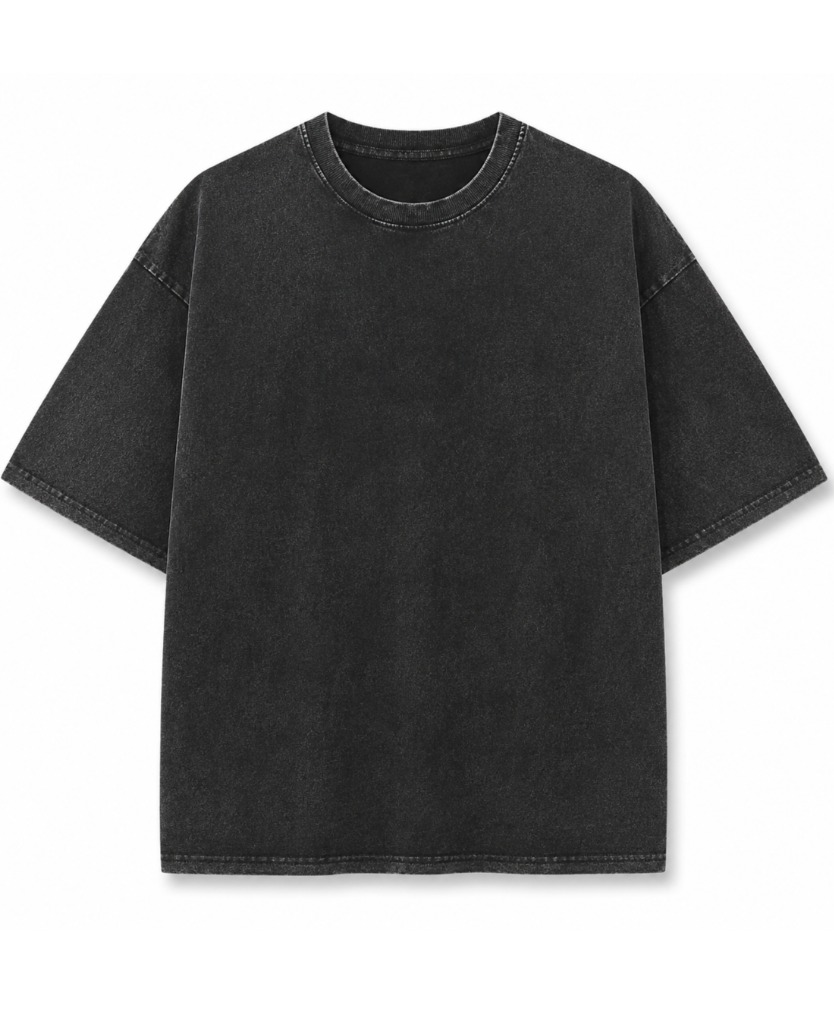
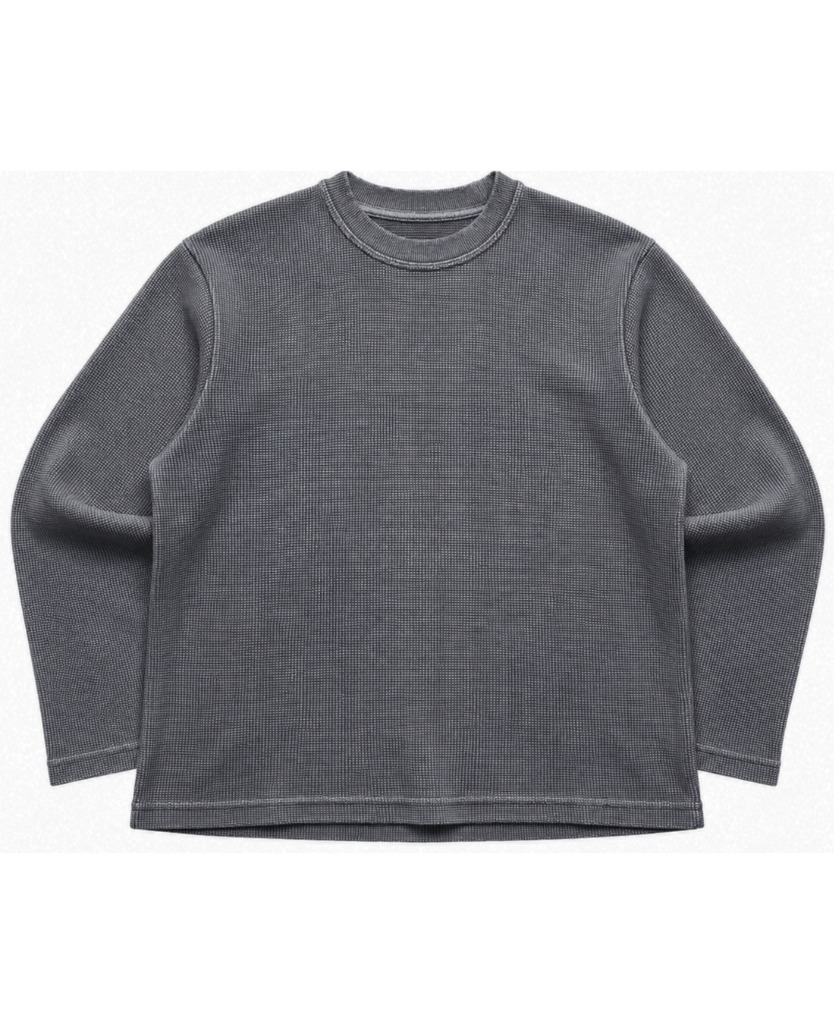
feat: add model shots for the-classic-waffle-black and update acidwash waffle full sleeve front asset

diff --git a/src/lib/products/queries.ts b/src/lib/products/queries.ts
@@ -39,6 +39,7 @@ function getFallbackProducts(): FormattedProduct[] {
       'the-henley-offwhite',
       'heavy-waffle-offwhite-full',
       'the-classic-waffle-offwhite',
+      'the-classic-waffle-black',
       'the-henley-black',
       'heavy-waffle-black-full',
       'heavy-waffle-brown-full',
@@ -120,6 +121,7 @@ export async function getProducts(): Promise<FormattedProduct[]> {
         'the-henley-offwhite',
         'heavy-waffle-offwhite-full',
         'the-classic-waffle-offwhite',
+        'the-classic-waffle-black',
         'the-henley-black',
         'heavy-waffle-black-full',
         'heavy-waffle-brown-full',
@@ -199,6 +201,7 @@ export async function getProducts(): Promise<FormattedProduct[]> {
           'the-henley-offwhite',
           'heavy-waffle-offwhite-full',
           'the-classic-waffle-offwhite',
+          'the-classic-waffle-black',
           'the-henley-black',
           'heavy-waffle-black-full',
           'heavy-waffle-brown-full',
